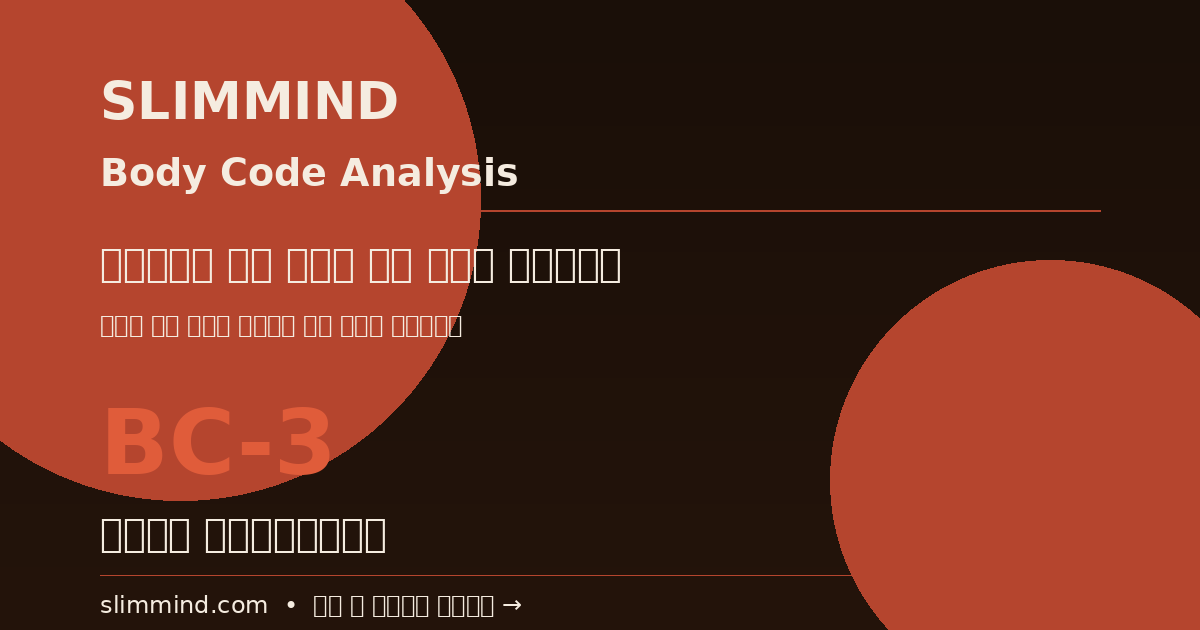
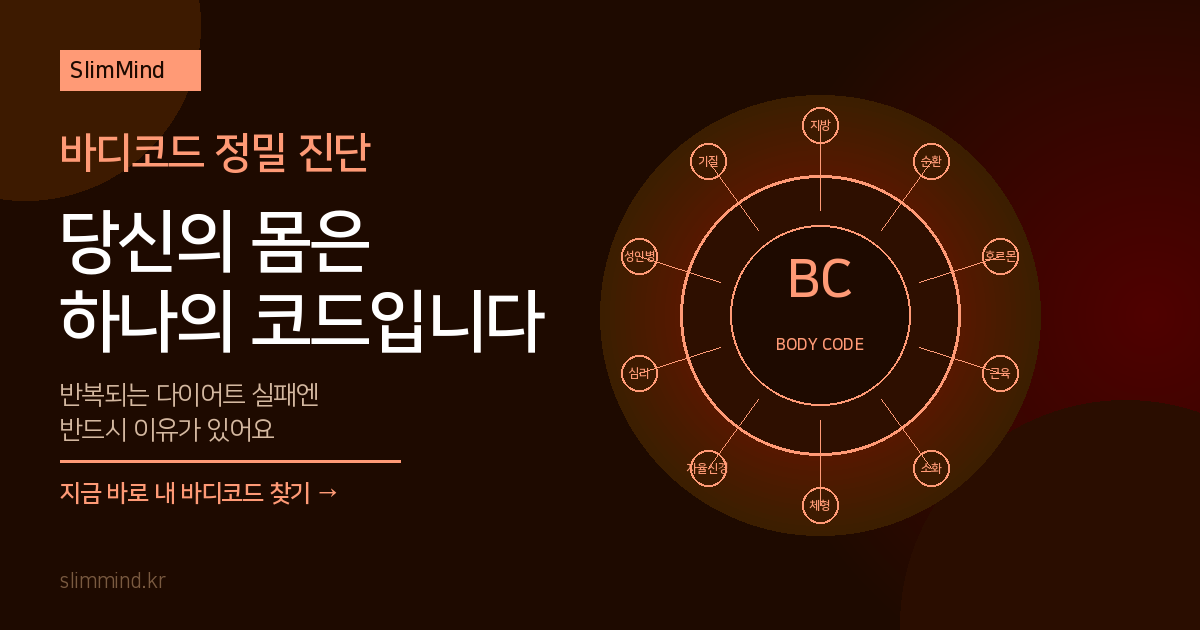
fix: OG 이미지 한글 정상 렌더링 + slimmind_live.html OG 태그 추가

diff --git a/public/slimmind_live.html b/public/slimmind_live.html
@@ -4,6 +4,21 @@
 <meta charset="UTF-8">
 <meta name="viewport" content="width=device-width,initial-scale=1.0,maximum-scale=1.0,user-scalable=no">
 <title>슬림마인드 바디코드 진단</title>
+<!-- Open Graph / 카카오톡 링크 미리보기 -->
+<meta property="og:type" content="website">
+<meta property="og:site_name" content="SlimMind">
+<meta property="og:title" content="슬림마인드 | 바디코드 정밀 진단">
+<meta property="og:description" content="당신의 몸은 하나의 코드입니다. 반복되는 다이어트 실패엔 반드시 이유가 있어요. 지금 바로 내 바디코드를 찾아보세요.">
+<meta property="og:image" content="https://slimmind.kr/static/og_survey.png">
+<meta property="og:image:width" content="1200">
+<meta property="og:image:height" content="630">
+<meta property="og:url" content="https://slimmind.kr/slimmind_live.html">
+<meta property="og:locale" content="ko_KR">
+<!-- Twitter Card -->
+<meta name="twitter:card" content="summary_large_image">
+<meta name="twitter:title" content="슬림마인드 | 바디코드 정밀 진단">
+<meta name="twitter:description" content="당신의 몸은 하나의 코드입니다. 반복되는 다이어트 실패엔 반드시 이유가 있어요.">
+<meta name="twitter:image" content="https://slimmind.kr/static/og_survey.png">
 <style>
 *{box-sizing:border-box;margin:0;padding:0;-webkit-tap-highlight-color:transparent}
 body{font-family:Pretendard,-apple-system,BlinkMacSystemFont,sans-serif;background:#f4ede4;color:#3D3128;min-height:100vh}
